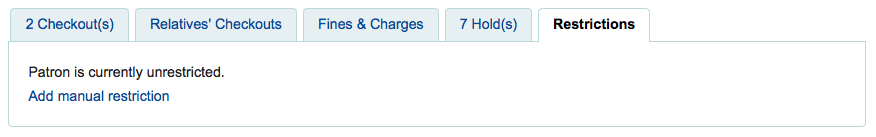
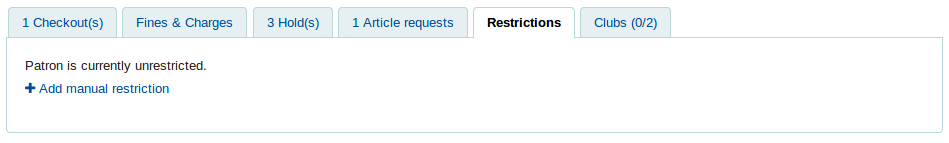
Bug 13228: Documentation of restrictions tab does not show OVERDUE restriction
Updates the screenshots in the restrictions tab description

Changed region(s): [[0.0, 0.0292, 1.0, 0.9343]]

diff --git a/source/images.rst b/source/images.rst
@@ -1334,7 +1334,6 @@
 .. |image1344| image:: images/admin/globalprefs/opaclogininstructions.png
 .. |image1345| image:: images/admin/globalprefs/stafflogininstructions.png
 .. |image1346| image:: images/patrons/quickadd.png
-<<<<<<< d16e2b0576f44b71c0d5146bca39acb52352c860
 .. |image1347| image:: images/patrons/houseboundtab.png
 .. |image1348| image:: images/patrons/houseboundprofile.png
 .. |image1349| image:: images/patrons/houseboundroles.png
@@ -1347,8 +1346,3 @@
 .. |image1356| image:: images/serials/batchrenew.png
 .. |image1357| image:: images/coursereserves/additem.png
 .. |image1358| image:: images/coursereserves/batchadditems.png
-=======
-.. |image1347| image:: images/patrons/patrondetails.png
-.. |image1348| image:: images/patrons/finescharges.png
-.. |image1349| image:: images/patron/articlesrequests.png
->>>>>>> Bug 13228: Documentation of restrictions tab does not show OVERDUE restriction
